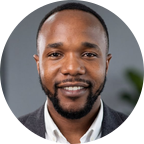
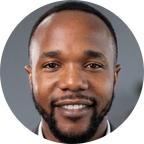
Passe l'icône d'onglet à la photo
Décision de Nathan, prise en connaissance du compromis : à 16 px le monogramme
« ND » était plus net et plus repérable — comparé à taille réelle, c'est un
fait — mais la cohérence avec la barre de navigation, le carrousel LinkedIn et
le CV l'emporte sur la lisibilité maximale d'une icône d'onglet.

Le cadrage est BEAUCOUP plus serré que partout ailleurs (front, yeux, bouche,
menton) : au cadrage de la barre, le visage ne couvrirait qu'une poignée de
pixels à 16 px et deviendrait illisible.

Deux pistes essayées puis écartées, mesurées à taille réelle : un renfort de
contraste, qui vire la peau à l'orange et donne un visage artificiel ; et un
masque circulaire, qui coûte 21 % de la surface — donc des pixels de visage —
pour un gain décoratif.

favicon.svg est supprimé et sa balise retirée : une photo n'est pas
vectorisable, et les navigateurs préfèrent le SVG quand il est déclaré. Le
laisser aurait affiché l'ancien monogramme et annulé tout le reste.

diff --git a/index.html b/index.html
@@ -37,9 +37,11 @@
     <meta name="twitter:image" content="https://diffonathan.github.io/og.png" />
 
     <!-- Le SVG d'abord : les navigateurs actuels le préfèrent et il reste net à
-         toutes les tailles. Les PNG servent de repli, et favicon.ico répond aux
-         agrégateurs qui demandent /favicon.ico sans lire ces balises. -->
-    <link rel="icon" type="image/svg+xml" href="%BASE_URL%favicon.svg" />
+         L'icône est une photo, donc en PNG : pas de favicon.svg, un
+         visage n'etant pas vectorisable. Le declarer aurait suffi a ce que les
+         navigateurs le preferent et affichent l'ancien monogramme.
+         favicon.ico repond aux agregateurs qui demandent /favicon.ico sans
+         lire ces balises. -->
     <link rel="icon" type="image/png" sizes="32x32" href="%BASE_URL%favicon-32.png" />
     <link rel="icon" type="image/png" sizes="16x16" href="%BASE_URL%favicon-16.png" />
     <link rel="apple-touch-icon" sizes="180x180" href="%BASE_URL%apple-touch-icon.png" />
